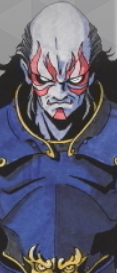
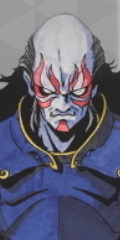
Updated Images
- Ratios should be 0.5:1 when comparing width/height (Shifter/SelectorExample image is what annoyed me about it)
- jpg images changed to png versions with correct ratios.

diff --git a/js/app.js b/js/app.js
@@ -805,13 +805,13 @@ const ddd_stable = [
         name_en:'Reaper',
         formulas:[],
         devils:[
-            { name:'Mot', name_tw:'吹號者', name_en:'', rarity:5, grade:91, icon:'Mot.jpg', skills:['Megidolaon','Mamudodyne',"Harmonious Death"], skill4:['Mana Gain','Deathtouch','Judgement','Life Surge','Null Phys'], skill5:['','Magic Amp III','Auto-Rakuka','Enduring Soul','Resist Elec'], elements:['Resist','Resist','','Weak','Repel','','Repel'], type:'Attack'},
-            { name:'Ixtab', name_tw:'吹號者', name_en:'', rarity:5, grade:84, icon:'Ixtab.jpg', skills:['Mamudoon','Bufudyne',"Yaxche"], skill4:['','Hell Gaze','Mahashibaboon','Berserker','Null Light'], skill5:['','Assassin','Insanity','Auto-Rakunda','Mabufudyne'], elements:['','','','','','Weak','Repel'], type:'Support'},
-            { name:'Nergal', name_tw:'吹號者', name_en:'', rarity:5, grade:82, icon:'Nergal.jpg', skills:['Berserker God','Meslamtaea',"Plague of Babylon"], skill4:['Strength Amp III','Hades Blast','Toxic Sting','Auto-Taruka','Null Light'], skill5:['','Savage Glee','Auto-Sukuka','Strength Amp III','Resist Ice'], elements:['','Resist','Weak','','','Resist','Repel'], type:'Support'},
-            { name:'Orcus', name_tw:'吹號者', name_en:'', rarity:5, grade:80, icon:'Orcus.jpg', skills:['War Cry','Law of Hell',"Hell's Gate"], skill4:['','Mamudoon','Nocturne','Tetraka Shift','Null Phys'], skill5:['','Auto-Tarunda','Null Bind','Hell Gaze','Vitality Amp III'], elements:['Resist','Weak','Resist','Weak','Resist','','Null'], type:'Support'},
-            { name:'Persephone', name_tw:'愛麗絲', name_en:'', rarity:4, grade:72, icon:'Persephone.jpg', skills:['Bufudyne','Mamudoon','Fruit of the Dead'], skill4:['Vengeance','Energy Drain','Prayer','Null Bind','Drain Dark'], skill5:['','Acid Breath','Life Gain','War Cry','Resist Elec'], elements:['','','Null','Weak','','','Null'], type:'Support'},
+            { name:'Mot', name_tw:'吹號者', name_en:'', rarity:5, grade:91, icon:'Mot.png', skills:['Megidolaon','Mamudodyne',"Harmonious Death"], skill4:['Mana Gain','Deathtouch','Judgement','Life Surge','Null Phys'], skill5:['','Magic Amp III','Auto-Rakuka','Enduring Soul','Resist Elec'], elements:['Resist','Resist','','Weak','Repel','','Repel'], type:'Attack'},
+            { name:'Ixtab', name_tw:'吹號者', name_en:'', rarity:5, grade:84, icon:'Ixtab.png', skills:['Mamudoon','Bufudyne',"Yaxche"], skill4:['','Hell Gaze','Mahashibaboon','Berserker','Null Light'], skill5:['','Assassin','Insanity','Auto-Rakunda','Mabufudyne'], elements:['','','','','','Weak','Repel'], type:'Support'},
+            { name:'Nergal', name_tw:'吹號者', name_en:'', rarity:5, grade:82, icon:'Nergal.png', skills:['Berserker God','Meslamtaea',"Plague of Babylon"], skill4:['Strength Amp III','Hades Blast','Toxic Sting','Auto-Taruka','Null Light'], skill5:['','Savage Glee','Auto-Sukuka','Strength Amp III','Resist Ice'], elements:['','Resist','Weak','','','Resist','Repel'], type:'Support'},
+            { name:'Orcus', name_tw:'吹號者', name_en:'', rarity:5, grade:80, icon:'Orcus.png', skills:['War Cry','Law of Hell',"Hell's Gate"], skill4:['','Mamudoon','Nocturne','Tetraka Shift','Null Phys'], skill5:['','Auto-Tarunda','Null Bind','Hell Gaze','Vitality Amp III'], elements:['Resist','Weak','Resist','Weak','Resist','','Null'], type:'Support'},
+            { name:'Persephone', name_tw:'愛麗絲', name_en:'', rarity:4, grade:72, icon:'Persephone.png', skills:['Bufudyne','Mamudoon','Fruit of the Dead'], skill4:['Vengeance','Energy Drain','Prayer','Null Bind','Drain Dark'], skill5:['','Acid Breath','Life Gain','War Cry','Resist Elec'], elements:['','','Null','Weak','','','Null'], type:'Support'},
             { name:'Chernobog', name_tw:'白騎士', name_en:'', rarity:4, grade:64, icon:'Chernobog.png', skills:['Deadly Poison','Hades Blast',"Fog of Death"], skill4:['Sea of Chaos','Dark Sword','Outbreak','Savage Glee','Null Fire'], skill5:['','Deadly Mute','Dmg Panel V II','Tempest Slash','Resist Light'], elements:['','','','','','Weak','Null'], type:'Attack'},
-            { name:'Hel', name_tw:'白騎士', name_en:'', rarity:4, grade:60, icon:'Hel.jpg', skills:['Mabufula','Mamudo',"Call to Helheim"], skill4:['Ice Breath','Bufudyne','Rattle','Ice Boost','Repel Ice'], skill5:['','Merciless Blow','Enduring Soul','Bufudyne','Resist Fire'], elements:['','Weak','Null','','','','Null'], type:'Attack'}
+            { name:'Hel', name_tw:'白騎士', name_en:'', rarity:4, grade:60, icon:'Hel.png', skills:['Mabufula','Mamudo',"Call to Helheim"], skill4:['Ice Breath','Bufudyne','Rattle','Ice Boost','Repel Ice'], skill5:['','Merciless Blow','Enduring Soul','Bufudyne','Resist Fire'], elements:['','Weak','Null','','','','Null'], type:'Attack'}
         ]
     },
     {

diff --git a/index.html b/index.html
@@ -440,11 +440,11 @@
                       <td><a href="#Siegfried" onclick="openCollapsibleViaToC('Siegfried')"><img src="images/devil/eiyuu_jikuhurito.png"><br>Siegfried</a></td>
                       <td><a href="#Yoshitsune" onclick="openCollapsibleViaToC('Yoshitsune')"><img src="images/devil/eiyuu_yositune.png"><br>Yoshitsune</a></td>
                       <!-- Reaper-->
-                      <td><a href="#Ixtab" onclick="openCollapsibleViaToC('Ixtab')"><img src="images/devil/Ixtab.jpg"><br>Ixtab</a></td>
-                      <td><a href="#Mot" onclick="openCollapsibleViaToC('Mot')"><img src="images/devil/Mot.jpg"><br>Mot</a></li>
+                      <td><a href="#Ixtab" onclick="openCollapsibleViaToC('Ixtab')"><img src="images/devil/Ixtab.png"><br>Ixtab</a></td>
+                      <td><a href="#Mot" onclick="openCollapsibleViaToC('Mot')"><img src="images/devil/Mot.png"><br>Mot</a></li>
                     </tr><tr>
-                      <td><a href="#Nergal" onclick="openCollapsibleViaToC('Nergal')"><img src="images/devil/Nergal.jpg"><br>Nergal</a></td>
-                      <td><a href="#Orcus" onclick="openCollapsibleViaToC('Orcus')"><img src="images/devil/Orcus.jpg"><br>Orcus</a></td>
+                      <td><a href="#Nergal" onclick="openCollapsibleViaToC('Nergal')"><img src="images/devil/Nergal.png"><br>Nergal</a></td>
+                      <td><a href="#Orcus" onclick="openCollapsibleViaToC('Orcus')"><img src="images/devil/Orcus.png"><br>Orcus</a></td>
                       <!-- General -->
                       <td><a href="#Masakado" onclick="openCollapsibleViaToC('Masakado')"><img src="images/devil/Masakado.png"><br>Masakado</a></td>
                     </tr>
@@ -491,10 +491,10 @@
                     <tr>
                       <td class="DG-Table-Label">Gacha</td>
                       <td><a href="#Chernobog" onclick="openCollapsibleViaToC('Chernobog')"><img src="images/devil/Chernobog.png"><br>Chernobog</a></td>
-                      <td><a href="#Hel" onclick="openCollapsibleViaToC('Hel')"><img src="images/devil/Hel.jpg"><br>Hel</a></td>
+                      <td><a href="#Hel" onclick="openCollapsibleViaToC('Hel')"><img src="images/devil/Hel.png"><br>Hel</a></td>
                       <td><a href="#Hell Biker" onclick="openCollapsibleViaToC('Hell Biker')"><img src="images/devil/Hell-Biker.png"><br>Hell Biker</a></td>
                       <td><a href="#Jeanne D Arc" onclick="openCollapsibleViaToC('Jeanne D Arc')"><img src="images/devil/eiyuu_jannu.png"><br>Jeanne D'Arc</a></td>
-                      <td><a href="#Persephone" onclick="openCollapsibleViaToC('Persephone')"><img src="images/devil/Persephone.jpg"><br>Persephone</a></td>
+                      <td><a href="#Persephone" onclick="openCollapsibleViaToC('Persephone')"><img src="images/devil/Persephone.png"><br>Persephone</a></td>
                       <td><a href="#White Rider" onclick="openCollapsibleViaToC('White Rider')"><img src="images/devil/majin_waitonaito.png"><br>White Rider</a></td>
                       <td><a href="#Man Eater" onclick="openCollapsibleViaToC('Man Eater')"><img src="images/devil/ManEater.png"><br>Man Eater</a></td>
                       <td><a href="#Bodyconian" onclick="openCollapsibleViaToC('Bodyconian')"><img src="images/devil/Bodyconian.png"><br>Bodyconian</a></td>
